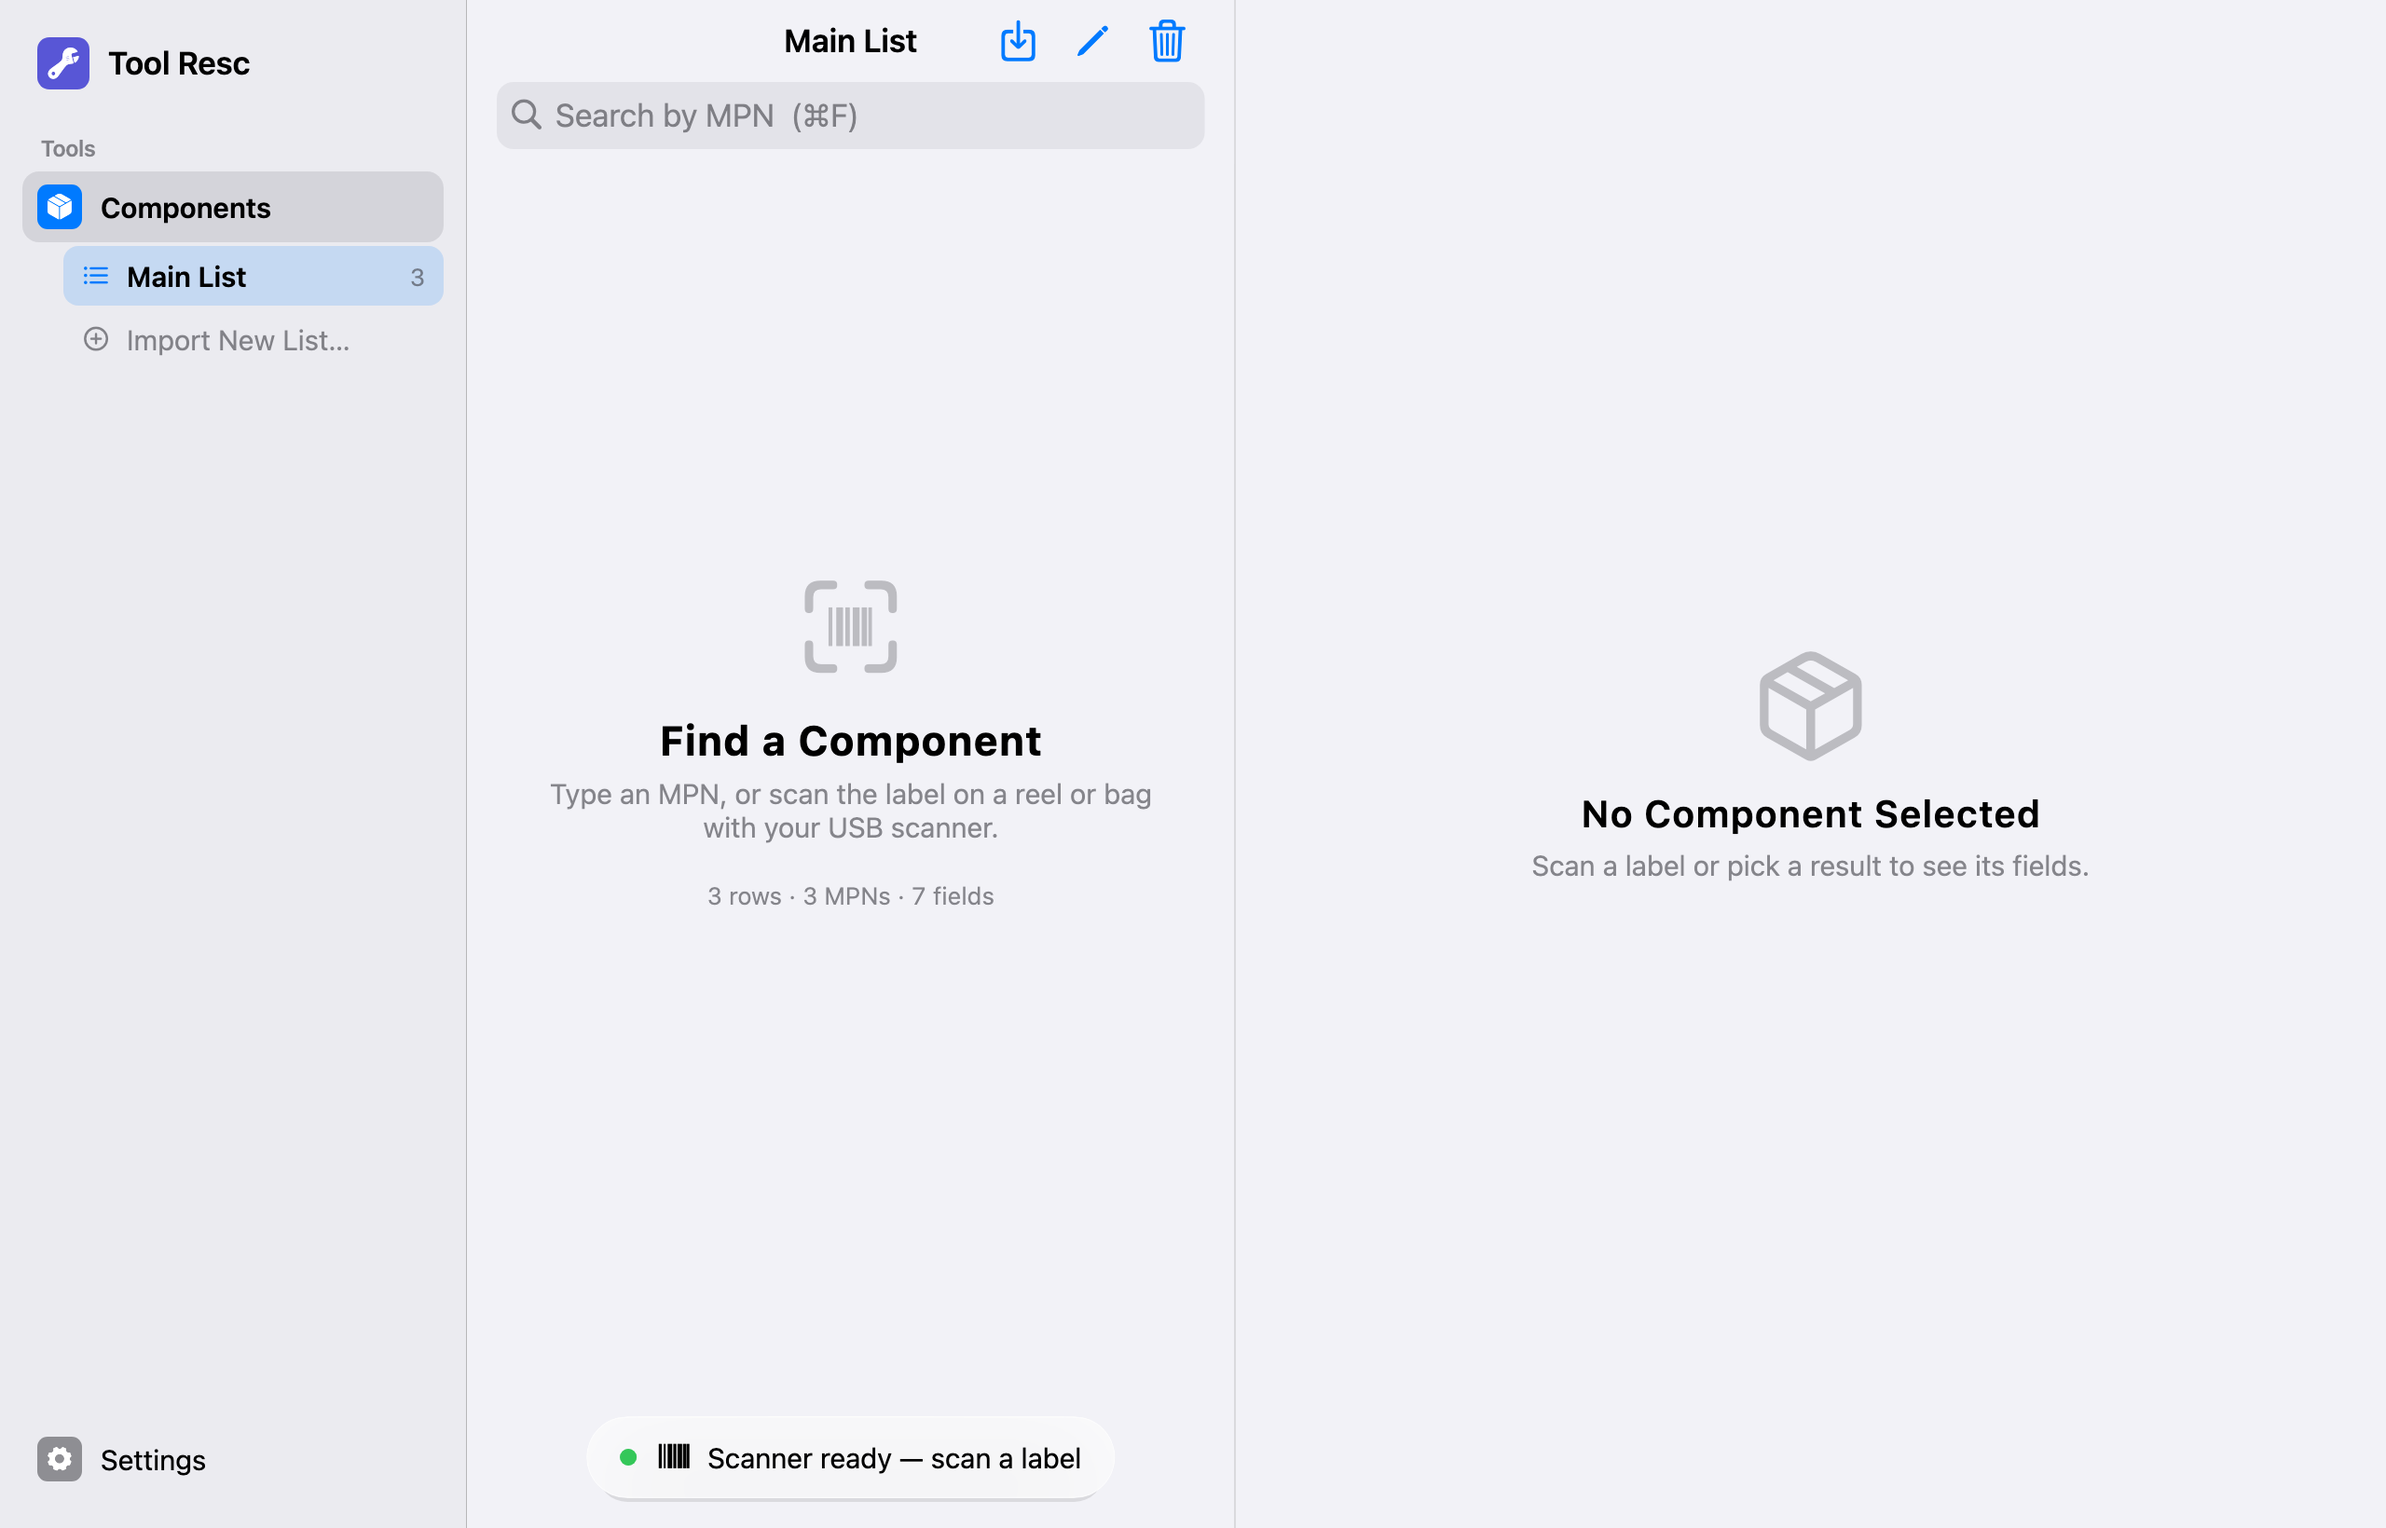
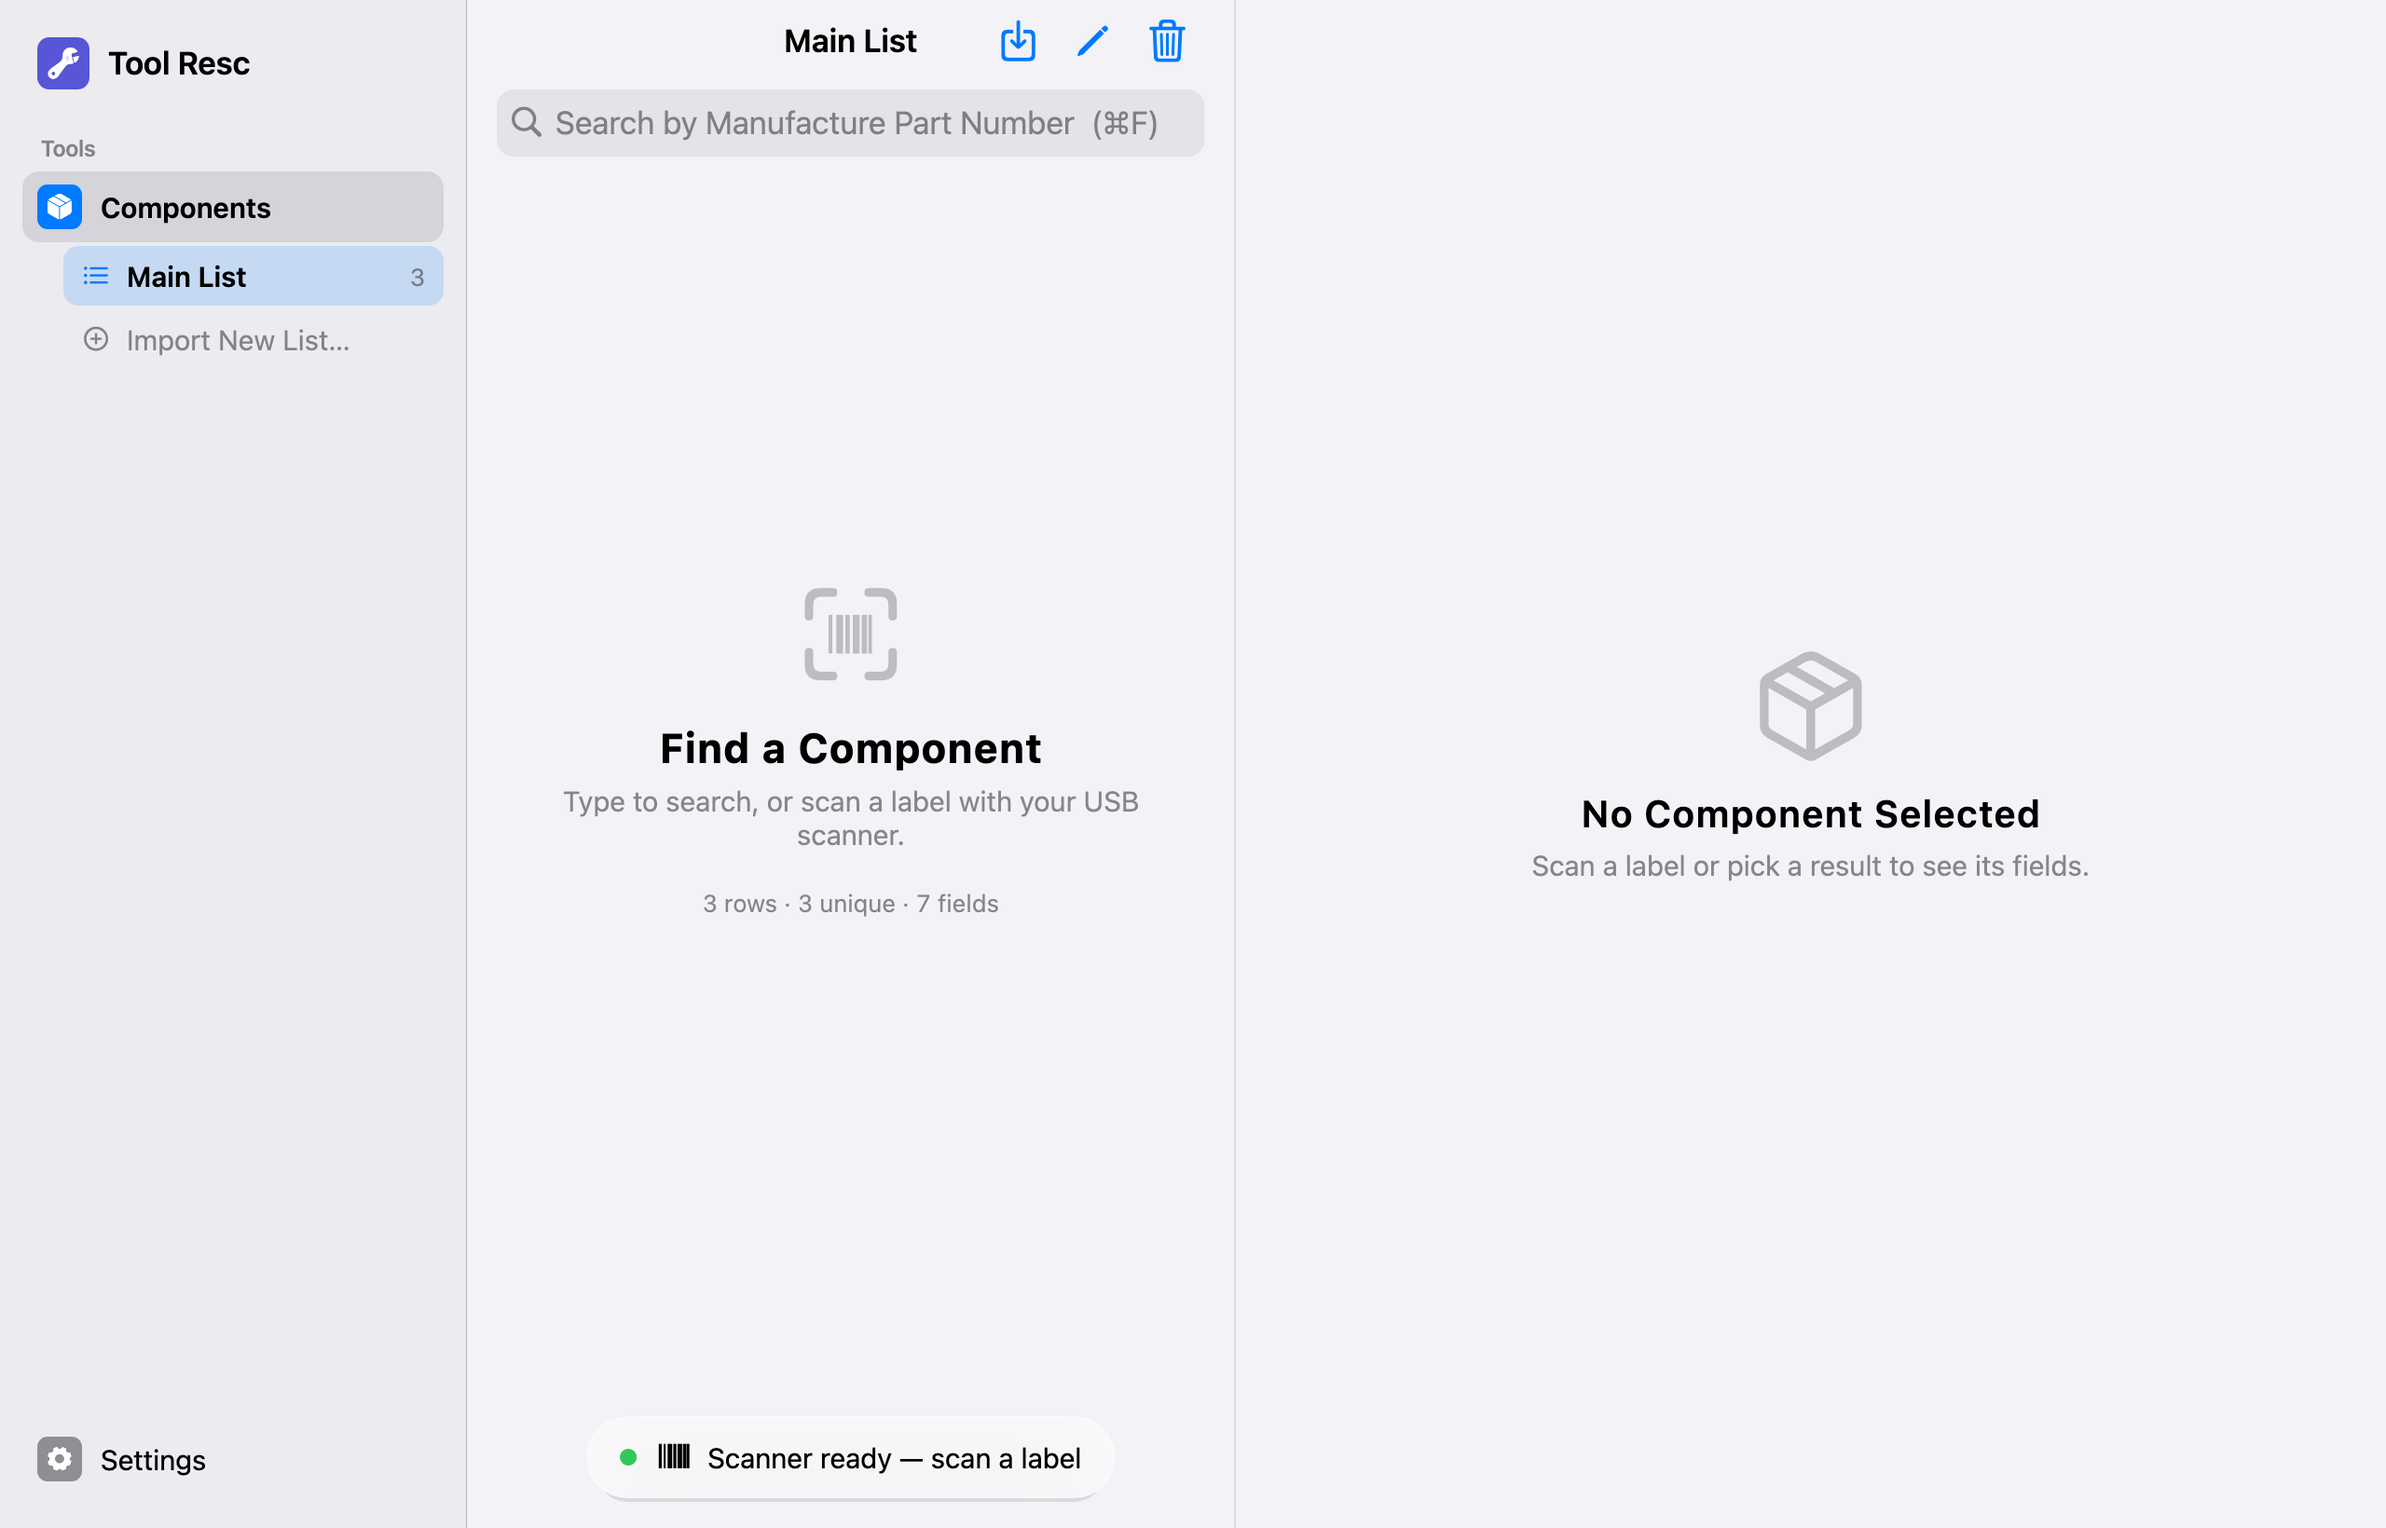
feat: Enhance search functionality with a new desktop search field and improve keyboard scanner detection

Changed region(s): [[0.2188, 0.3732, 0.4688, 0.622], [0.2188, 0.0622, 0.5, 0.0933]]

diff --git a/lib/features/components/components_screen.dart b/lib/features/components/components_screen.dart
@@ -348,6 +348,19 @@ class _ComponentsScreenState extends ConsumerState<ComponentsScreen> {
     final results = ref.watch(searchResultsProvider).value ?? SearchResults.empty;
     // Name the search column as it appears in the imported file.
     final placeholder = 'Search by ${catalog.mpnField ?? 'value'}';
+    final searchField = CupertinoSearchTextField(
+      controller: _search,
+      focusNode: _searchFocus,
+      autofocus: isDesktop,
+      placeholder: isDesktop ? '$placeholder  (${_shortcutLabel('F')})' : placeholder,
+      autocorrect: false,
+      smartDashesType: SmartDashesType.disabled,
+      smartQuotesType: SmartQuotesType.disabled,
+      enableIMEPersonalizedLearning: false,
+      onChanged: _onTyping,
+      onSubmitted: _submit,
+      onSuffixTap: _clearSearch,
+    );
     final bottomInset = MediaQuery.paddingOf(context).bottom;
 
     return CupertinoPageScaffold(
@@ -356,26 +369,26 @@ class _ComponentsScreenState extends ConsumerState<ComponentsScreen> {
           CustomScrollView(
             keyboardDismissBehavior: ScrollViewKeyboardDismissBehavior.onDrag,
             slivers: [
-              CupertinoSliverNavigationBar.search(
-                // Keyed by list: the bar doesn't refresh its title otherwise.
-                key: ValueKey(ref.watch(listsProvider).activeId),
-                largeTitle: Text(ref.watch(listsProvider).active.name),
-                previousPageTitle: 'Tools',
-                trailing: _actions(true),
-                searchField: CupertinoSearchTextField(
-                  controller: _search,
-                  focusNode: _searchFocus,
-                  autofocus: isDesktop,
-                  placeholder: isDesktop ? '$placeholder  (${_shortcutLabel('F')})' : placeholder,
-                  autocorrect: false,
-                  smartDashesType: SmartDashesType.disabled,
-                  smartQuotesType: SmartQuotesType.disabled,
-                  enableIMEPersonalizedLearning: false,
-                  onChanged: _onTyping,
-                  onSubmitted: _submit,
-                  onSuffixTap: _clearSearch,
+              // Phones: iOS search bar under the large title. Desktop: a plain
+              // field that's always there; the iOS "search mode" rebuilds the
+              // field on click, which loses focus and drops scanner input.
+              if (isDesktop) ...[
+                CupertinoSliverNavigationBar(
+                  // Keyed by list: the bar doesn't refresh its title otherwise.
+                  key: ValueKey(ref.watch(listsProvider).activeId),
+                  largeTitle: Text(ref.watch(listsProvider).active.name),
+                  previousPageTitle: 'Tools',
+                  trailing: _actions(true),
                 ),
-              ),
+                SliverPersistentHeader(pinned: true, delegate: _PinnedSearch(child: searchField)),
+              ] else
+                CupertinoSliverNavigationBar.search(
+                  key: ValueKey(ref.watch(listsProvider).activeId),
+                  largeTitle: Text(ref.watch(listsProvider).active.name),
+                  previousPageTitle: 'Tools',
+                  trailing: _actions(true),
+                  searchField: searchField,
+                ),
               if (_narrow(context)) SliverToBoxAdapter(child: ComponentListChips(onImport: _pickExcel)),
               if (label != null) SliverToBoxAdapter(child: _scanCard(label, query)),
               if (query.trim().isEmpty)
@@ -418,6 +431,32 @@ class _ComponentsScreenState extends ConsumerState<ComponentsScreen> {
       ),
     );
   }
+}
+
+/// The desktop search field, pinned under the navigation bar.
+class _PinnedSearch extends SliverPersistentHeaderDelegate {
+  const _PinnedSearch({required this.child});
+
+  final Widget child;
+
+  static const _height = 52.0;
+
+  @override
+  double get minExtent => _height;
+
+  @override
+  double get maxExtent => _height;
+
+  @override
+  Widget build(BuildContext context, double shrinkOffset, bool overlapsContent) {
+    return ColoredBox(
+      color: context.resolve(CupertinoColors.systemGroupedBackground),
+      child: Padding(padding: const EdgeInsets.fromLTRB(16, 4, 16, 12), child: child),
+    );
+  }
+
+  @override
+  bool shouldRebuild(_PinnedSearch old) => old.child != child;
 }
 
 String _shortcutLabel(String key) => isMacOS ? '⌘$key' : 'Ctrl+$key';

diff --git a/lib/features/components/keyboard_scanner.dart b/lib/features/components/keyboard_scanner.dart
@@ -1,3 +1,5 @@
+import 'dart:async';
+
 import 'package:flutter/services.dart';
 import 'package:flutter/widgets.dart';
 
@@ -31,16 +33,22 @@ class ScanBurstDetector {
     _last = time;
   }
 
+  /// Whether the keys so far are clearly a scanner (enough of them, fast).
+  bool get inBurst => _keys >= minLength && (_last! - _first!) ~/ (_keys - 1) <= maxAverageGap;
+
   /// Called on Enter/Tab. Returns the scanned text if the burst was a scan.
   String? finish(Duration time) {
-    final text = _buffer.toString();
-    final keys = _keys;
-    final span = (_last ?? time) - (_first ?? time);
-    final recent = _last != null && time - _last! <= resetGap;
+    if (_last != null && time - _last! <= resetGap) return flush();
     _reset(null);
-    if (!recent || keys < minLength) return null;
-    final averageGap = span ~/ (keys - 1);
-    return averageGap <= maxAverageGap ? text : null;
+    return null;
+  }
+
+  /// Ends the current burst without Enter (for scanners that send no
+  /// suffix). Returns the scanned text if it was a scan.
+  String? flush() {
+    final text = inBurst ? _buffer.toString() : null;
+    _reset(null);
+    return text;
   }
 
   void _reset(Duration? time) {
@@ -66,6 +74,10 @@ String? usLayoutChar(PhysicalKeyboardKey key, {required bool shift}) {
     const plain = '1234567890', shifted = '!@#\$%^&*()';
     return (shift ? shifted : plain)[code - 0x1E];
   }
+  // Numeric keypad, which some scanners use for digits.
+  if (code >= 0x59 && code <= 0x62) return '1234567890'[code - 0x59];
+  const keypad = {0x54: '/', 0x55: '*', 0x56: '-', 0x57: '+', 0x63: '.'};
+  if (keypad[code] case final c?) return c;
   const symbols = {
     0x2C: (' ', ' '),
     0x2D: ('-', '_'),
@@ -85,7 +97,9 @@ String? usLayoutChar(PhysicalKeyboardKey key, {required bool shift}) {
 }
 
 /// Listens for scanner bursts anywhere while [enabled], and reports each
-/// scanned text to [onScan]. Normal typing passes through untouched.
+/// scanned text to [onScan]. Normal typing passes through untouched; once
+/// input is clearly a scanner, its keys are kept out of any focused text
+/// field so a half-typed code doesn't mix with what's there.
 class KeyboardScannerListener extends StatefulWidget {
   const KeyboardScannerListener({super.key, required this.onScan, required this.child, this.enabled = true});
 
@@ -100,6 +114,10 @@ class KeyboardScannerListener extends StatefulWidget {
 class _KeyboardScannerListenerState extends State<KeyboardScannerListener> {
   final _detector = ScanBurstDetector();
 
+  /// Fires when a burst stops without Enter (scanner with no suffix).
+  Timer? _idle;
+  static const _idleDelay = Duration(milliseconds: 150);
+
   @override
   void initState() {
     super.initState();
@@ -109,6 +127,7 @@ class _KeyboardScannerListenerState extends State<KeyboardScannerListener> {
   @override
   void dispose() {
     HardwareKeyboard.instance.removeHandler(_onKey);
+    _idle?.cancel();
     super.dispose();
   }
 
@@ -119,6 +138,7 @@ class _KeyboardScannerListenerState extends State<KeyboardScannerListener> {
 
     final key = event.logicalKey;
     if (key == LogicalKeyboardKey.enter || key == LogicalKeyboardKey.numpadEnter || key == LogicalKeyboardKey.tab) {
+      _idle?.cancel();
       final text = _detector.finish(event.timeStamp);
       if (text == null) return false;
       widget.onScan(text);
@@ -126,8 +146,16 @@ class _KeyboardScannerListenerState extends State<KeyboardScannerListener> {
     }
 
     final char = usLayoutChar(event.physicalKey, shift: HardwareKeyboard.instance.isShiftPressed);
-    if (char != null) _detector.addChar(char, event.timeStamp);
-    return false;
+    if (char == null) return false;
+    _detector.addChar(char, event.timeStamp);
+    _idle?.cancel();
+    _idle = Timer(_idleDelay, () {
+      if (!mounted) return;
+      final text = _detector.flush();
+      if (text != null) widget.onScan(text);
+    });
+    // Once it's clearly a scanner, keep its keys out of the text field.
+    return _detector.inBurst;
   }
 
   @override

diff --git a/test/desktop_test.dart b/test/desktop_test.dart
@@ -80,6 +80,59 @@ void main() {
     expect(find.text('Drawer B1'), findsOneWidget);
     expect(find.text('In This List'), findsOneWidget);
 
+    // Click into the search field first, then scan: the field keeps focus
+    // and ends up with the scanned value, and the part opens.
+    Future<void> scanKeys(List<PhysicalKeyboardKey> keys, {bool enter = true}) async {
+      for (final key in keys) {
+        await simulateKeyDownEvent(LogicalKeyboardKey.keyA, physicalKey: key);
+        await simulateKeyUpEvent(LogicalKeyboardKey.keyA, physicalKey: key);
+      }
+      if (enter) {
+        await simulateKeyDownEvent(LogicalKeyboardKey.enter);
+        await simulateKeyUpEvent(LogicalKeyboardKey.enter);
+      }
+    }
+
+    await tester.tap(find.byType(CupertinoSearchTextField));
+    await settle();
+    final searchFocus = tester.widget<EditableText>(find.byType(EditableText)).focusNode;
+    expect(searchFocus.hasFocus, isTrue);
+    await scanKeys([
+      PhysicalKeyboardKey.keyR,
+      PhysicalKeyboardKey.keyC,
+      PhysicalKeyboardKey.digit0,
+      PhysicalKeyboardKey.digit8,
+      PhysicalKeyboardKey.digit0,
+      PhysicalKeyboardKey.digit5,
+      PhysicalKeyboardKey.keyF,
+      PhysicalKeyboardKey.keyR,
+      PhysicalKeyboardKey.minus,
+      PhysicalKeyboardKey.digit0,
+      PhysicalKeyboardKey.digit7,
+      PhysicalKeyboardKey.digit8,
+      PhysicalKeyboardKey.digit2,
+      PhysicalKeyboardKey.digit0,
+      PhysicalKeyboardKey.keyK,
+      PhysicalKeyboardKey.keyL,
+    ]);
+    await settle();
+    expect(searchFocus.hasFocus, isTrue);
+    expect(tester.widget<EditableText>(find.byType(EditableText)).controller.text, 'RC0805FR-07820KL');
+    expect(find.text('Drawer A3'), findsOneWidget);
+
+    // A scanner that sends no Enter: the scan is taken after a short pause.
+    await scanKeys([
+      PhysicalKeyboardKey.keyL,
+      PhysicalKeyboardKey.keyM,
+      PhysicalKeyboardKey.digit3,
+      PhysicalKeyboardKey.digit5,
+      PhysicalKeyboardKey.digit8,
+      PhysicalKeyboardKey.keyD,
+      PhysicalKeyboardKey.keyR,
+    ], enter: false);
+    await settle();
+    expect(find.text('Drawer B1'), findsOneWidget);
+
     // A slow scanner's QR text lands in the search field; Enter still
     // handles it as a scan.
     const qr = '{pc:C141700,pm:RC0805FR-07820KL,qty:100}';

diff --git a/test/keyboard_scanner_test.dart b/test/keyboard_scanner_test.dart
@@ -49,6 +49,27 @@ void main() {
     });
   });
 
+  group('ScanBurstDetector without Enter', () {
+    test('a fast burst is recognized mid-way and can be flushed', () {
+      final d = ScanBurstDetector();
+      d.addChar('a', ms(0));
+      d.addChar('b', ms(5));
+      d.addChar('c', ms(10));
+      expect(d.inBurst, isFalse); // too short to tell yet
+      d.addChar('d', ms(15));
+      expect(d.inBurst, isTrue);
+      expect(d.flush(), 'abcd');
+      expect(d.flush(), isNull); // already taken
+    });
+
+    test('typing is never a burst', () {
+      final d = ScanBurstDetector();
+      type(d, 'abcdef', gap: 120);
+      expect(d.inBurst, isFalse);
+      expect(d.flush(), isNull);
+    });
+  });
+
   group('usLayoutChar', () {
     test('decodes by physical key, independent of the OS layout', () {
       // On an Arabic layout these keys type Arabic letters; scanners mean US.
@@ -59,6 +80,9 @@ void main() {
       expect(usLayoutChar(PhysicalKeyboardKey.semicolon, shift: true), ':');
       expect(usLayoutChar(PhysicalKeyboardKey.bracketLeft, shift: true), '{');
       expect(usLayoutChar(PhysicalKeyboardKey.comma, shift: false), ',');
+      expect(usLayoutChar(PhysicalKeyboardKey.numpad7, shift: false), '7');
+      expect(usLayoutChar(PhysicalKeyboardKey.numpad0, shift: false), '0');
+      expect(usLayoutChar(PhysicalKeyboardKey.numpadSubtract, shift: false), '-');
     });
 
     test('ignores non-character keys', () {
